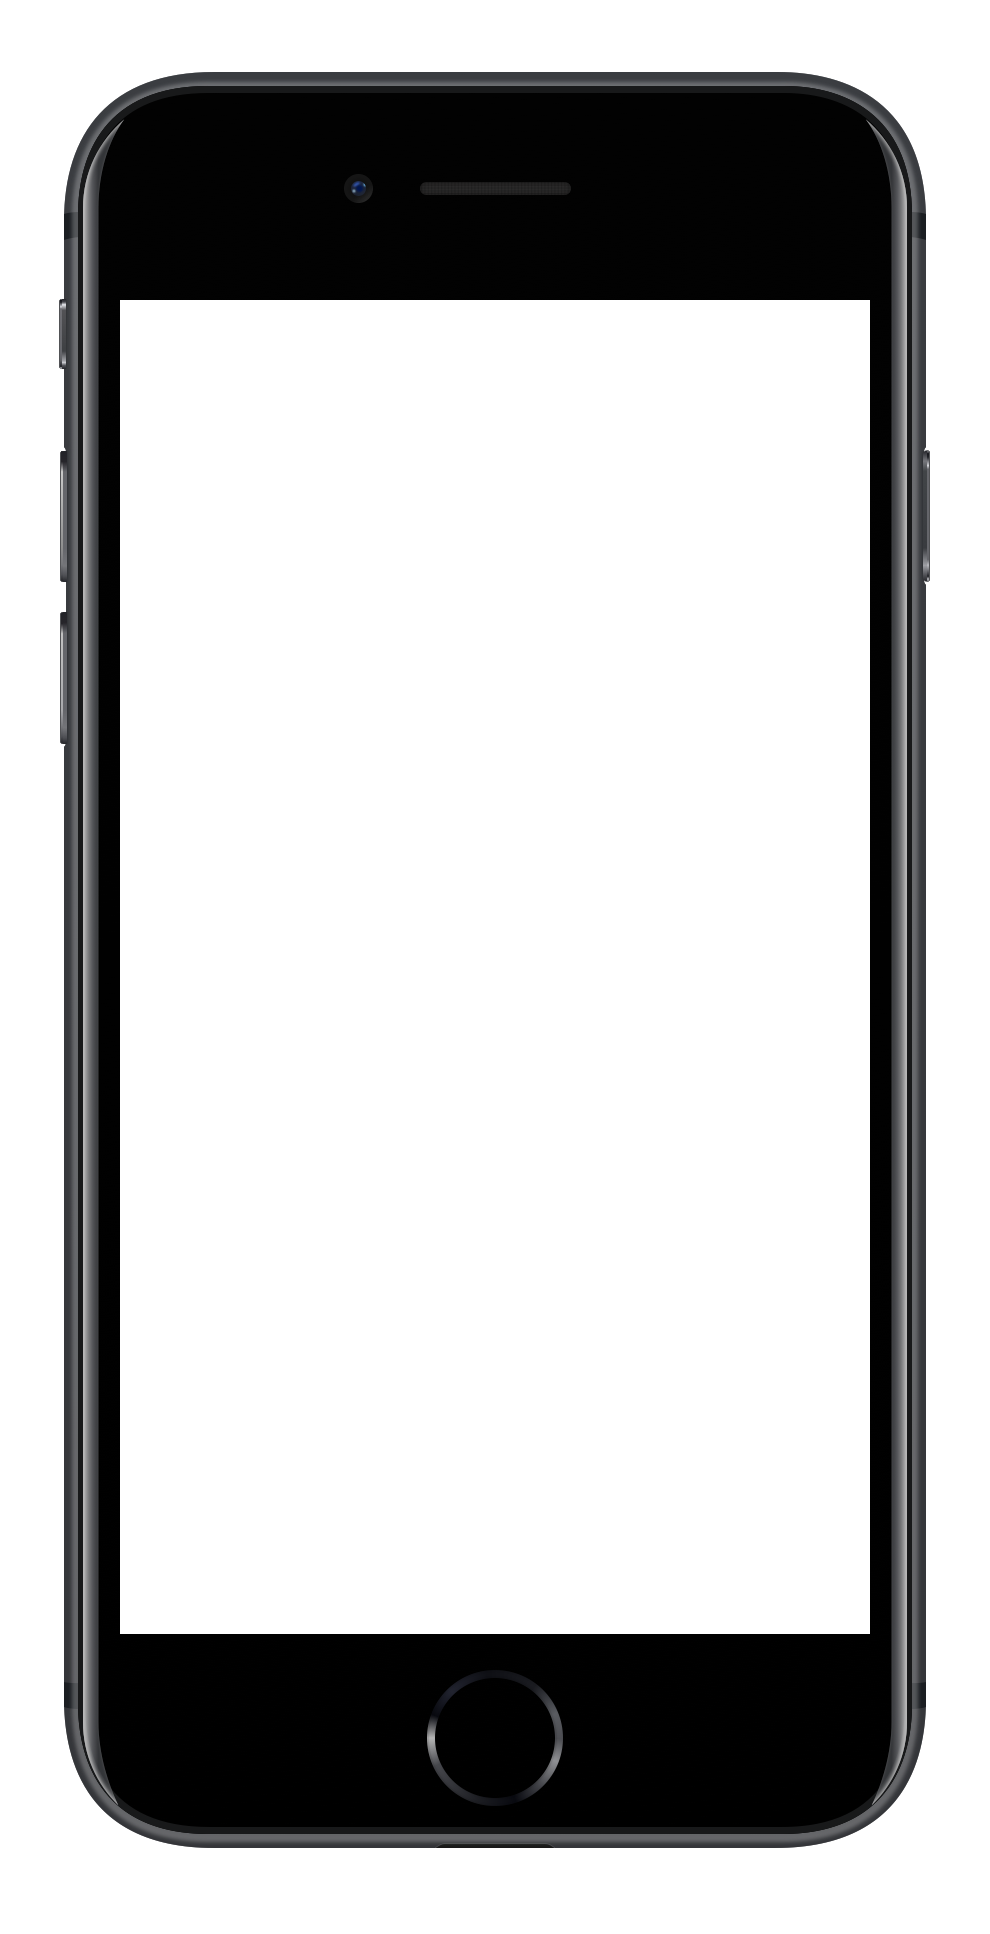
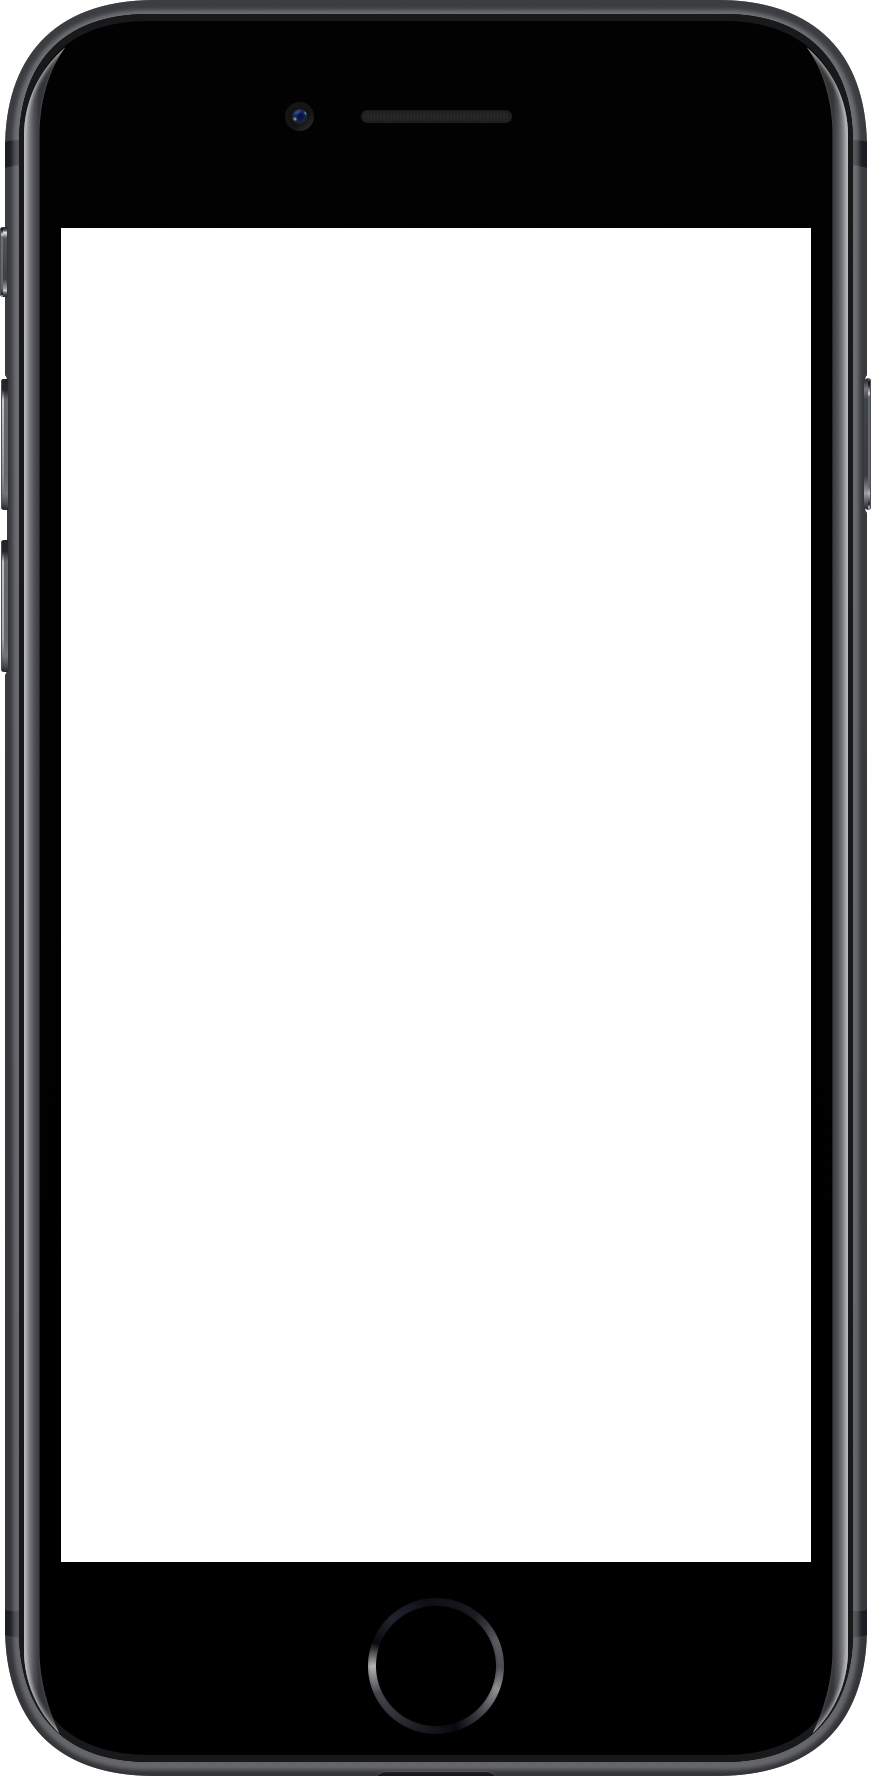
phone frame

diff --git a/styles/styles.css b/styles/styles.css
@@ -26,7 +26,7 @@ body{
 }
 
 header {
-  margin: 100px 20px;
+  margin: 100px 20px 190px 20px;
 }
 
 .title {
@@ -67,22 +67,28 @@ header {
 
 .main {
   background: #00FFA6;
-  height: 390px;
+  
   width: 100%;
-  overflow: hidden;
+  
 }
 
 .phone {
+  overflow: visible;
+  position: relative;
   background: white;
-  width: 20%;
-  height: 85%;
+  width: 302px;
+  height: 534px;
   text-align: center;
   margin: 0 auto;
 }
 
-#phone-image {
-
-  max-width: 90%;
+.phone__frame {
+  pointer-events: none;
+  overflow: visible;
+  position: absolute;
+  top: -90px;
+  left: -23px;
+  width: calc(100% + 46px);
 }
 
 #home-title {
@@ -102,7 +108,7 @@ header {
 }
 
 .cta-form {
-  margin: 100px 0;
+  margin: 190px 20px 100px 20px;
 }
 
 .cta-form__description {

diff --git a/index.html b/index.html
@@ -2,6 +2,8 @@
 <html>
   <head>
     <meta charset="utf-8">
+    <meta http-equiv="X-UA-Compatible" content="IE=edge">
+    <meta name="viewport" content="width=device-width, initial-scale=1">
     <title>tickTap</title>
     <link rel="stylesheet" href="styles/styles.css">
     <!-- Google Analytics -->
@@ -31,7 +33,7 @@
     <div class="main">
 
       <div class="phone">
-        <!--<img id="phone-image" src="resources/phone.png" alt="">-->
+        <img class="phone__frame" src="resources/phone.png" alt="">
 
         <div id="home">
           <p id="home-title">tickTap</p>
